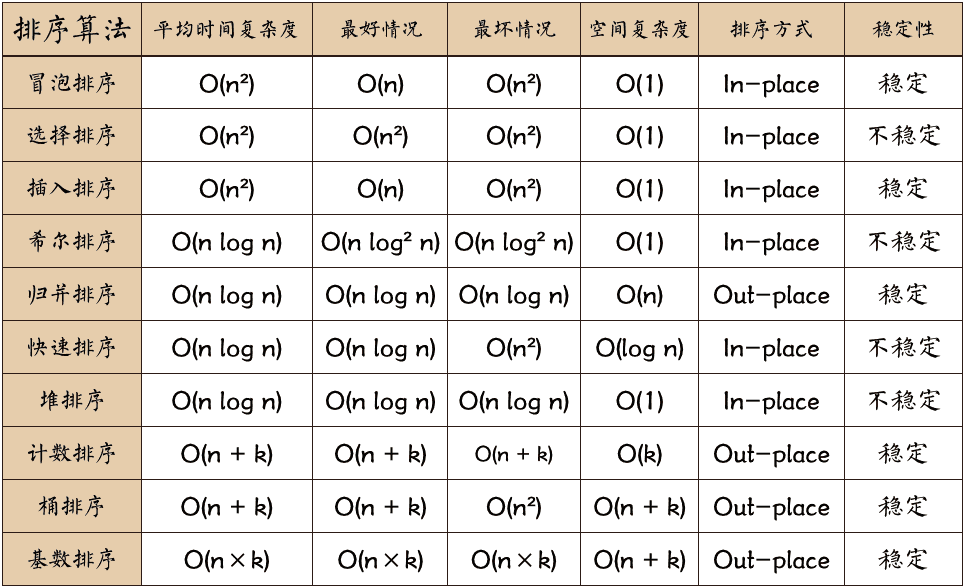
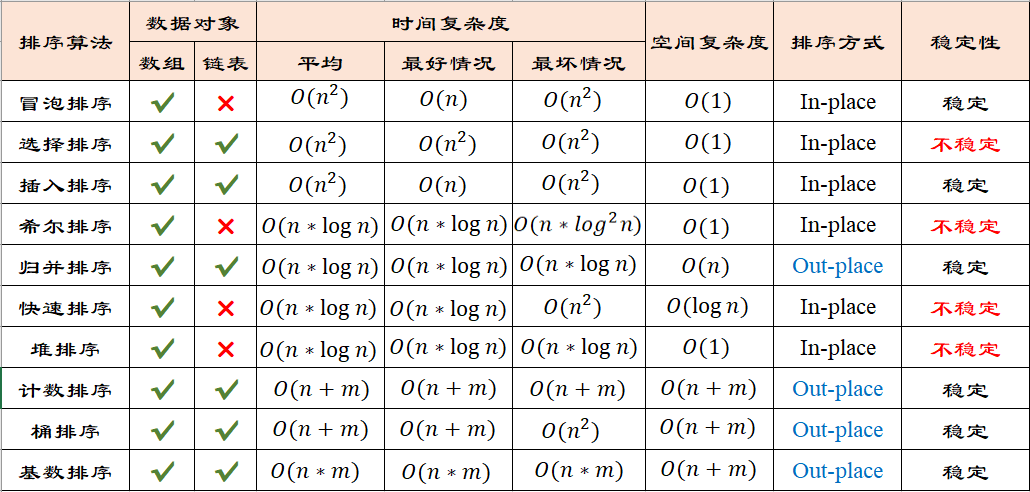
桶排序\基数排序

diff --git a/sort/README.md b/sort/README.md
@@ -1,10 +1,8 @@
 ### 排序算法
 
-排序算法可以分为内部排序和外部排序，**内部排序**是数据记录在内存中进行排序，而**外部排序**是因排序的数据很大，一次不能容纳全部的排序记录，在排序过程中需要访问外存。【*图片来自网络*】
+排序算法可以分为内部排序和外部排序，**内部排序**是数据记录在内存中进行排序，而**外部排序**是因排序的数据很大，一次不能容纳全部的排序记录，在排序过程中需要访问外存。
 
 ![sort](./img/sort.png)
-
-![sort2](./img/sort2.png)
 
 #### 冒泡排序
 
@@ -158,13 +156,13 @@ void shell_sort(vector<Type>& nums) {
  * 空间复杂度：O(n)
 **/
 template<class Type>
-void _sort(vector<Type>& nums, int start, int end) {
+void _merge_sort(vector<Type>& nums, int start, int end) {
     if (start >= end)
         return;
     int mid = start + (end - start) / 2;
     // 递归
-    _sort(nums, start, mid);    // [start, mid]
-    _sort(nums, mid + 1, end);  // [mid+1, end]
+    _merge_sort(nums, start, mid);    // [start, mid]
+    _merge_sort(nums, mid + 1, end);  // [mid+1, end]
     // 合并
     vector<Type> temp(end - start + 1, 0); // 暂存数组 可只使用一个 O(n)
     int left = start, right = mid + 1, t = 0;
@@ -187,7 +185,7 @@ void _sort(vector<Type>& nums, int start, int end) {
 
 template<class Type>
 void merge_sort(vector<Type>& nums){
-    _sort(nums, 0, nums.size() - 1);
+    _merge_sort(nums, 0, nums.size() - 1);
 }
 ```
 
@@ -343,6 +341,123 @@ void counting_sort(vector<Type>& nums) {
 
 #### 桶排序
 
+> 桶排序是计数排序的升级。设置一个定量的数组当作空桶，得到待排序元素范围 [min, max] 后，将元素放入对应的**桶**中。对非空的桶进行排序。最后将非空桶中的元素放回目标数组。
+
+【步骤】
+
+1. 设置一个定量的数组当作空桶；
+2. 得到待排序序列的元素范围 [min, max]；
+3. 将待排序元素放入对应的桶中；
+4. 队非空的桶进行排序；
+5. 将非空桶中的元素放回目标数组。
+
+```cpp
+/**
+ * 桶排序
+ * 稳定性：稳定
+ * 时间复杂度：O(n+m)
+ * 空间复杂度：O(n+m)
+**/
+template<class Type>
+void bucket_sort(vector<Type>& nums, int bucketCount) {
+    int n = nums.size();
+    if (n <= 1)
+        return;
+    // 1. 设置一个定量的数组当作空桶
+    vector<vector<Type>> temp(bucketCount, vector<Type>());
+    // 2. 得到待排序序列的元素范围[min, max]
+    int min = nums[0];
+    int max = nums[0];
+    for (int i = 1; i < n; ++i) {
+        if (min > nums[i])
+            min = nums[i];
+        else if (max < nums[i])
+            max = nums[i];
+    }
+    // 3. 将待排序元素放入对应的桶中
+    int space = (max - min + 1) / bucketCount + 1;
+    for (int i = 0; i < n; ++i) {
+        temp[(nums[i] - min) / space].push_back(nums[i]);
+    }
+    // 4. 对非空的桶进行排序
+    for (int i = 0; i < bucketCount; ++i) {
+        insert_sort(temp[i]);
+    }
+    // 5. 将非空桶中的元素放回目标数组
+    int index = 0;
+    for (int i = 0; i < bucketCount; ++i) {
+        for (int j = 0; j < temp[i].size(); ++j) {
+            nums[index++] = temp[i][j];
+        }
+    }
+}
+```
+
 #### 基数排序
+
+> 基数排序是计数排序和桶排序的结合。
+
+【步骤】
+
+1. 计算最大位数 `bits`
+2. 进行 `bits` 次排序
+   1. 清空计数
+   2. 统计每个桶中的记录数
+   3. 将临时数组中的位置依次分配给每个桶
+   4. 反向将所有桶中记录依次收集到临时数组中
+   5. 将临时数组的内容复制到目标数组中
+
+```cpp
+/**
+ * 基数排序
+ * 稳定性：稳定
+ * 时间复杂度：O(n*m)
+ * 空间复杂度：O(n+m)
+**/
+template<class Type>
+void radix_sort(vector<Type>& nums) {
+    int n = nums.size();
+    if (n <= 1)
+        return;
+    // 1. 计算最大位数 bits
+    int max_value = nums[0];
+    for (int i = 1; i < n; ++i) {
+        if (max_value < nums[i])
+            max_value = nums[i];
+    }
+    int bits = 0;  // 最大位数
+    while (max_value) {
+        max_value /= 10;
+        ++bits;
+    }
+    // 2. 进行 bits 次排序
+    vector<Type> temp(n, 0);
+    vector<int> count(10, 0);
+    int radix = 1;
+    while (bits--) {
+        // 2.1 清空计数
+        for (int i = 0; i < 10; ++i)
+            count[i] = 0;
+        // 2.2 统计每个桶中的记录数
+        for (int i = 0; i < n; ++i) {
+            ++count[(nums[i] / radix) % 10];
+        }
+        // 2.3 将 temp 中的位置依次分配给每个桶
+        for (int i = 1; i < 10; ++i) {
+            count[i] += count[i - 1];
+        }
+        // 2.4 反向将所有桶中记录依次收集到 temp 中
+        for (int i = n - 1; i >= 0; --i) {
+            temp[--count[(nums[i] / radix) % 10]] = nums[i];
+        }
+        // 2.5 将临时数组的内容复制到 nums 中
+        for (int i = 0; i < n; ++i) {
+            nums[i] = temp[i];
+        }
+        radix *= 10;
+    }
+}
+```
+
 
 
